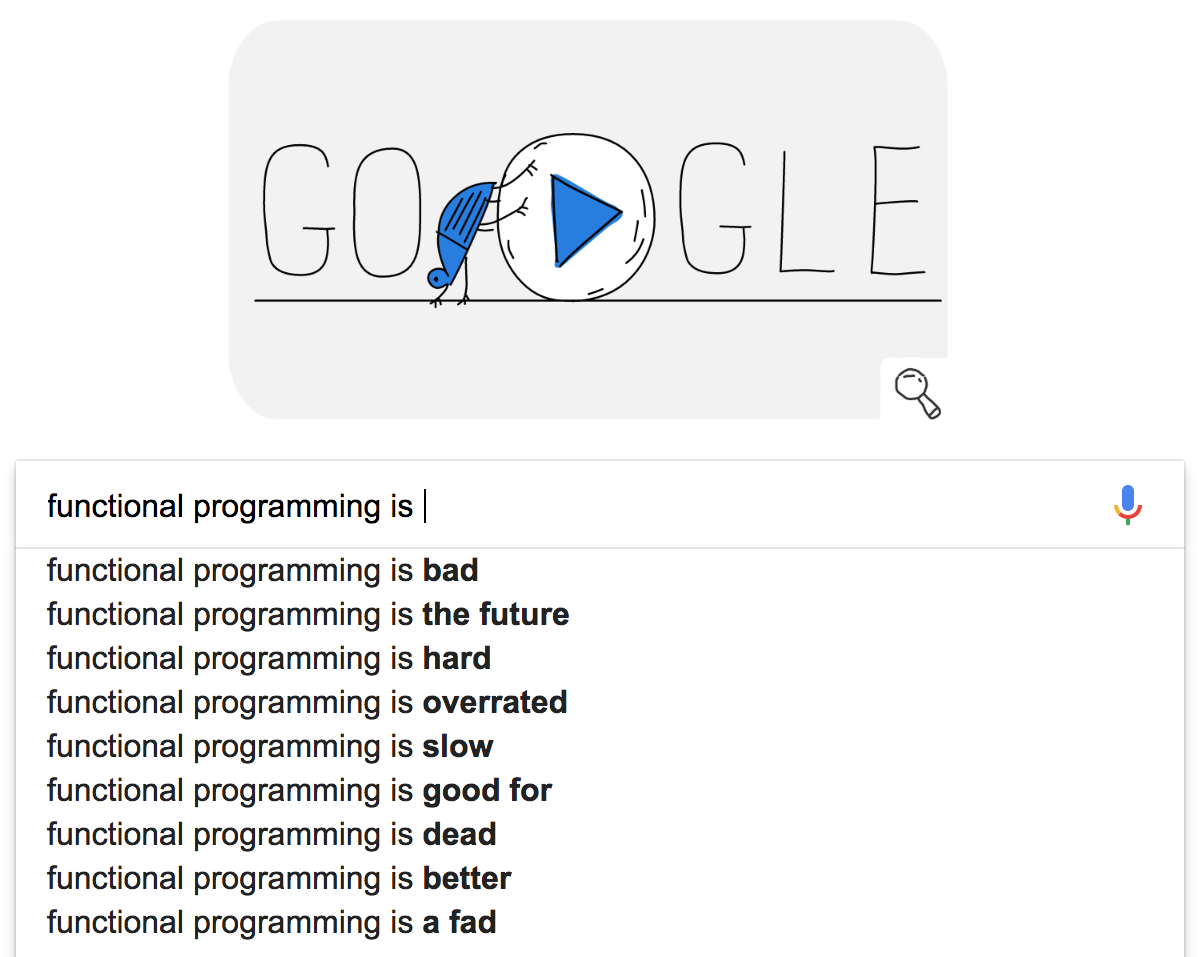
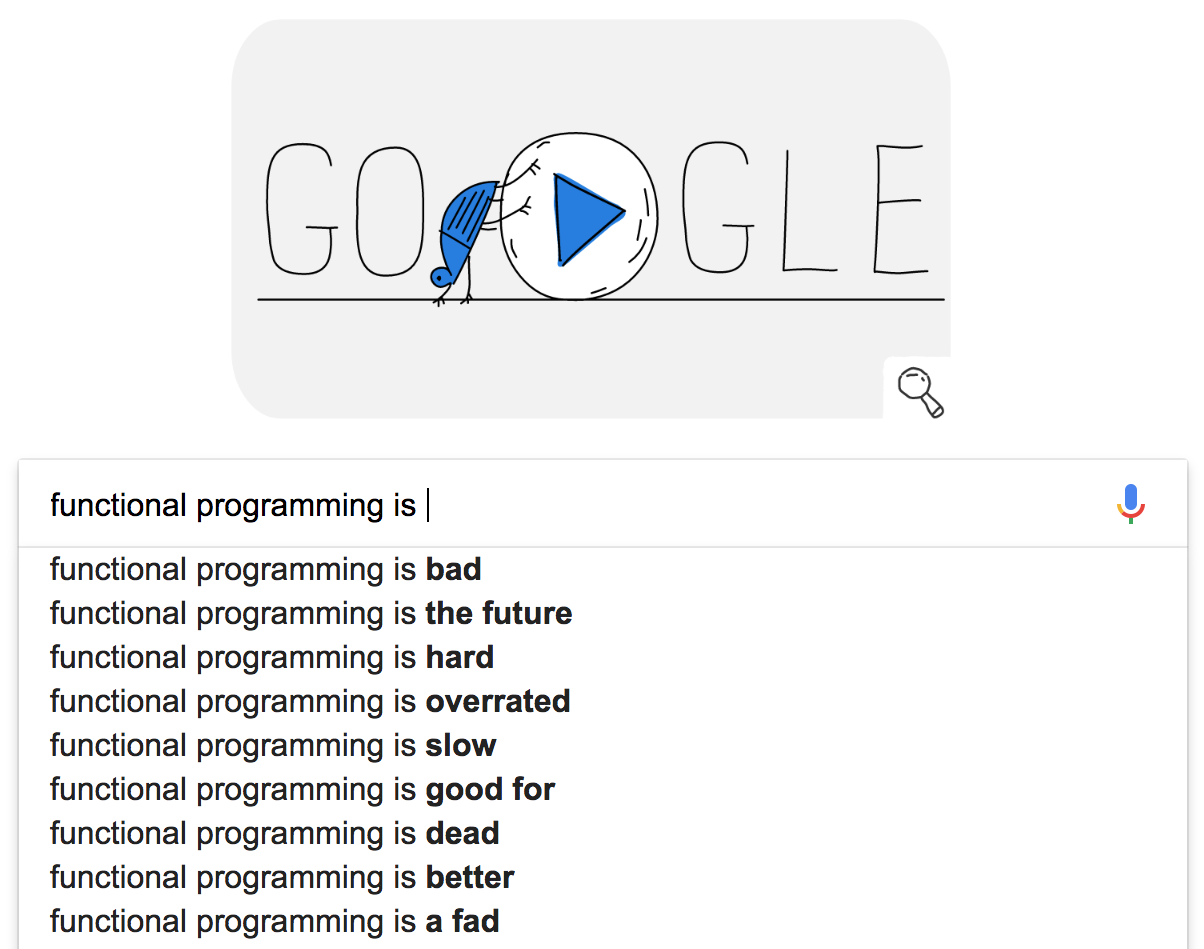
Size images properly!

diff --git a/index.html b/index.html
@@ -38,7 +38,7 @@
 				<section data-markdown>
 					<textarea data-template>
 						#### 🤔 🤔 🤔
-						![Google Results](img/google_results.png)
+						<img src="img/google_results.png" alt="Google Results" width="65%" height="65%">
 					</textarea>
 				</section>
 			</div>
